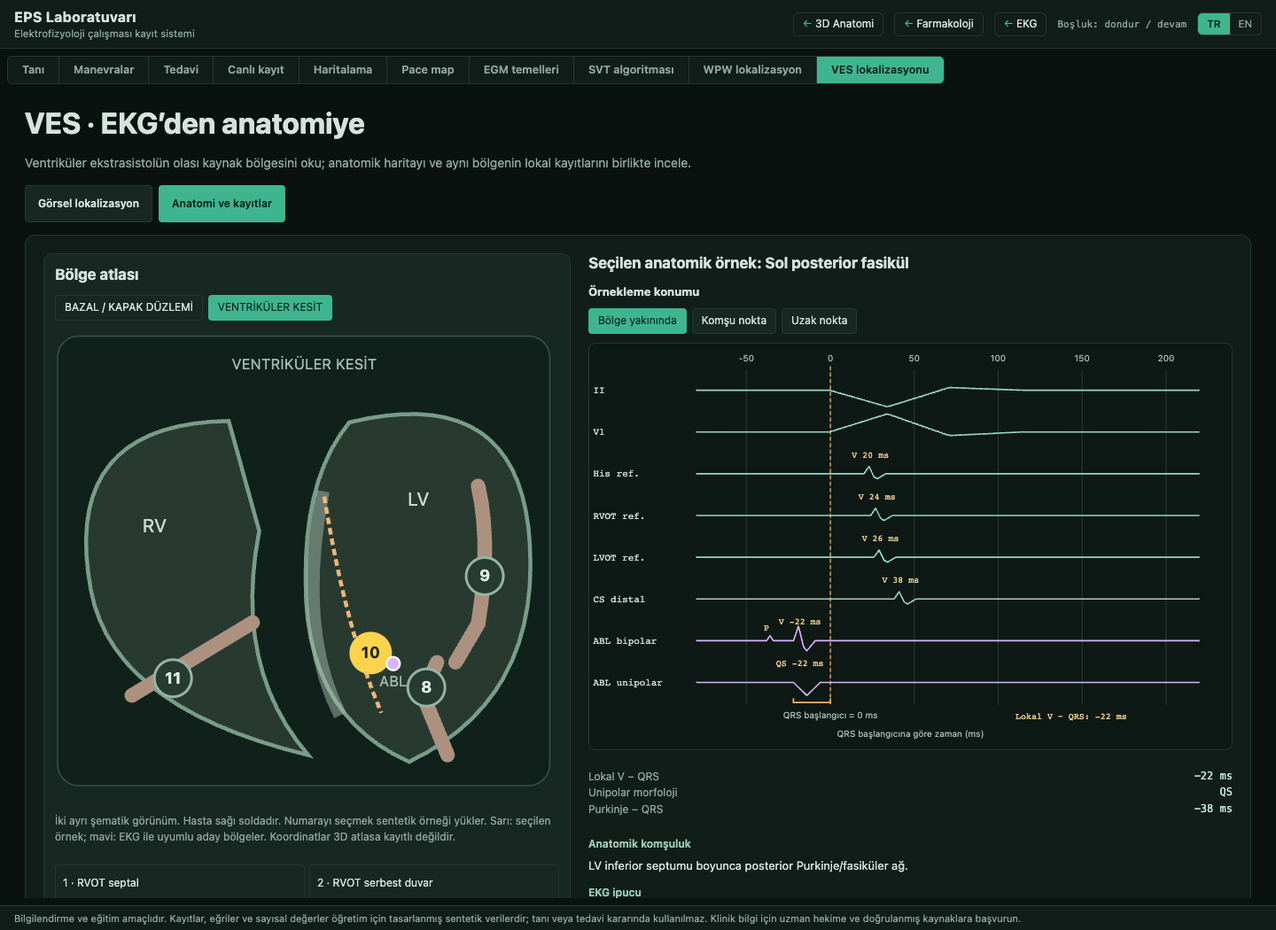
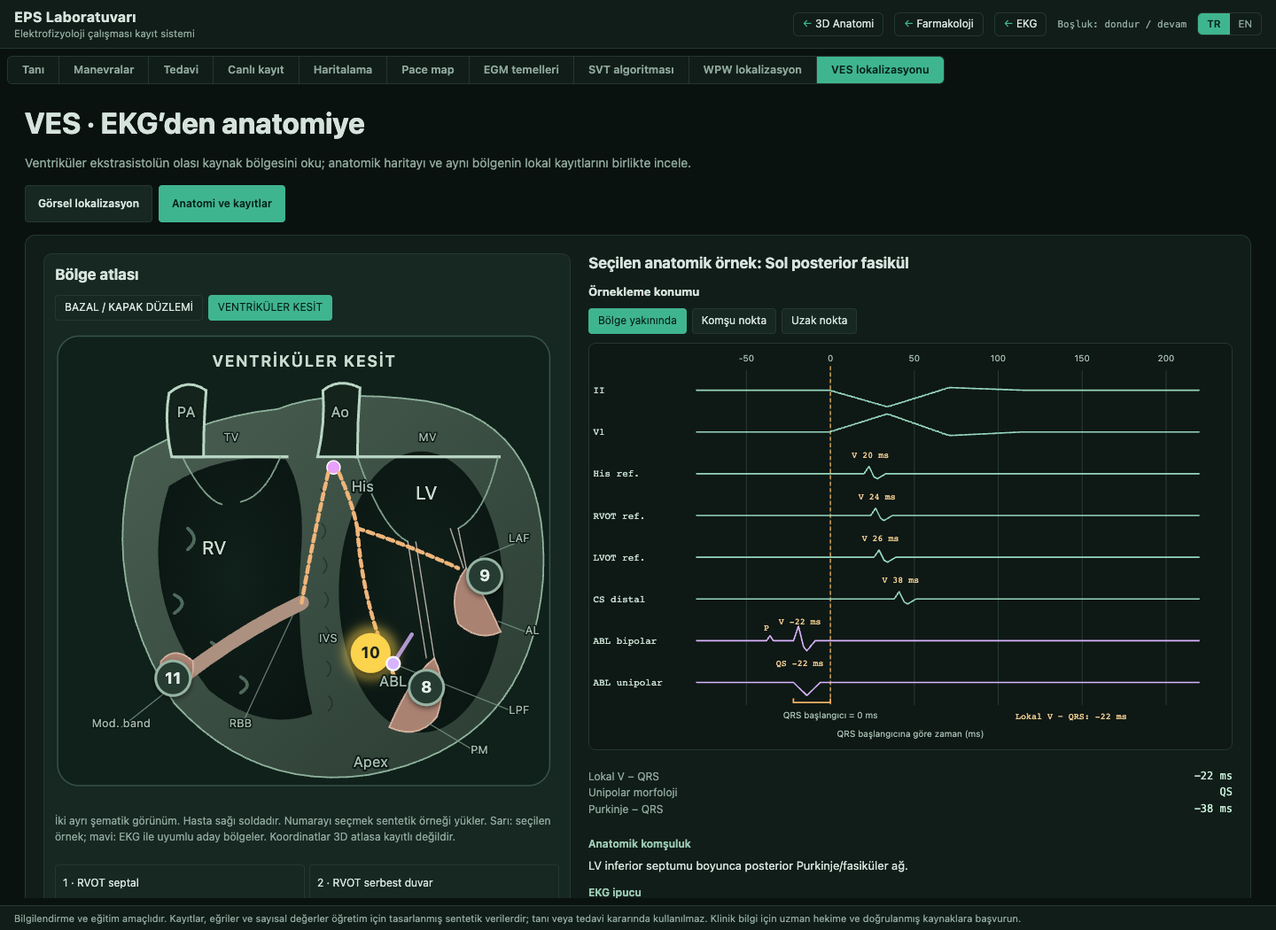
feat(eps): anatomical SVG atlas for the VES workbook
Replace the circle-and-arc region atlas with two hand-drawn anatomical
schematics in ves-loc-map.js. Basal view: aortic root with RCC/LCC/NCC
sinuses and coronary ostia, pulmonary valve anterior-left of the aorta,
RVOT infundibulum wrapping the root, tricuspid leaflets and the mitral
coaptation line with P1-P3 scallops, aorto-mitral continuity and fibrous
trigones, AV node/His at Koch's apex, CS os to GCV/AIV and the MCV, RCA
in the right AV groove and LM/LAD/LCx. Cutaway: myocardium and cavities,
septum, both LV papillary muscles with chordae, RV anterior papillary
muscle and moderator band, trabeculae, His/RBB/LBB fascicles, Ao and PA
stubs. Gradients, marker shadows and candidate/selected halos; labels
with leader lines; R/L and ANT/POST orientation.

Map rendering moves out of ves-loc-visual.js; data attributes, keyboard
behaviour and the browser test are unchanged.

Changed region(s): [[0.0625, 0.3657, 0.4375, 0.8533]]

diff --git a/src/eps/ves-loc-map.js b/src/eps/ves-loc-map.js
@@ -1,0 +1,163 @@
+import { VES_REGIONS } from './ves-loc-model.js';
+
+// Two original anatomical schematics for the PVC workbook. Basal view: the
+// ventricular base seen from above with the atria removed, anterior up and
+// the patient's right on the viewer's left. Cutaway: a long-axis section with
+// the RV on the viewer's left. Drawn by hand for teaching; nothing here is
+// registered to the 3D atlas or to patient imaging.
+const NS = 'http://www.w3.org/2000/svg';
+const s = (doc, tag, attrs = {}, text = '') => {
+  const node = doc.createElementNS(NS, tag);
+  for (const [k, v] of Object.entries(attrs)) node.setAttribute(k, String(v));
+  if (text !== '') node.textContent = text;
+  return node;
+};
+const polar = (cx, cy, r, deg) => [cx + r * Math.cos(deg * Math.PI / 180), cy + r * Math.sin(deg * Math.PI / 180)];
+const arc = (cx, cy, r, from, to) => {
+  const [x0, y0] = polar(cx, cy, r, from), [x1, y1] = polar(cx, cy, r, to);
+  return `M${x0.toFixed(1)} ${y0.toFixed(1)} A${r} ${r} 0 ${to - from > 180 ? 1 : 0} 1 ${x1.toFixed(1)} ${y1.toFixed(1)}`;
+};
+let uidCounter = 0;
+
+/** Shared gradients and the marker shadow; ids are unique per rendered SVG. */
+function defs(doc, uid) {
+  const d = s(doc, 'defs');
+  const stops = (id, list, radial = false) => {
+    const g = s(doc, radial ? 'radialGradient' : 'linearGradient', radial ? { id, cx: '50%', cy: '45%', r: '65%' } : { id, x1: 0, y1: 0, x2: 1, y2: 1 });
+    for (const [offset, color, opacity = 1] of list) g.append(s(doc, 'stop', { offset, 'stop-color': color, 'stop-opacity': opacity }));
+    d.append(g);
+  };
+  stops(`${uid}-myo`, [['0%', '#4a5f52'], ['100%', '#2a3b32']]);
+  stops(`${uid}-cavity`, [['0%', '#10201a'], ['100%', '#0a1512']], true);
+  stops(`${uid}-rvot`, [['0%', '#3e5547'], ['55%', '#2f4238'], ['100%', '#1f2f27']]);
+  stops(`${uid}-root`, [['0%', '#2a3f36'], ['100%', '#14241d']], true);
+  stops(`${uid}-vessel`, [['0%', '#f0a7a0'], ['100%', '#c96f68']]);
+  const f = s(doc, 'filter', { id: `${uid}-shadow`, x: '-50%', y: '-50%', width: '200%', height: '200%' });
+  f.append(s(doc, 'feDropShadow', { dx: 0, dy: 1.5, stdDeviation: 2, 'flood-color': '#000', 'flood-opacity': .55 }));
+  d.append(f);
+  const halo = s(doc, 'filter', { id: `${uid}-halo`, x: '-80%', y: '-80%', width: '260%', height: '260%' });
+  halo.append(s(doc, 'feGaussianBlur', { stdDeviation: 4 }));
+  d.append(halo);
+  return d;
+}
+
+function label(doc, parent, x, y, text, cls = 'ves-map-caption', leader = null) {
+  if (leader) parent.append(s(doc, 'line', { x1: leader[0], y1: leader[1], x2: x, y2: y, class: 'ves-map-lead' }));
+  parent.append(s(doc, 'text', { x, y, class: cls }, text));
+}
+
+/** Basal valve plane: aorta in the centre, pulmonary valve anterior-left, tricuspid right, mitral left. */
+function basalView(doc, g, uid, t) {
+  const AO = [205, 135], AOR = 40, PV = [262, 58], PVR = 25, TA = [100, 214], MA = [268, 215];
+  // Right ventricular outflow: wraps anterior to the aortic root from the tricuspid side to the pulmonary valve.
+  g.append(s(doc, 'path', { d: 'M62 158 Q46 66 124 44 Q186 28 232 50 L240 74 Q200 78 176 98 Q152 120 150 148 Z', class: 'ves-map-rvot', fill: `url(#${uid}-rvot)` }));
+  for (let i = 0; i < 5; i++) g.append(s(doc, 'path', { d: `M${74 + i * 6} ${150 - i * 14} Q${90 + i * 10} ${88 - i * 6} ${150 + i * 10} ${64 - i * 2}`, class: 'ves-map-fiber' }));
+  // Annuli as fibrous rings with a thick myocardial margin.
+  for (const [[cx, cy], rx, ry] of [[TA, 62, 66], [MA, 60, 62]]) {
+    g.append(s(doc, 'ellipse', { cx, cy, rx: rx + 9, ry: ry + 9, class: 'ves-map-myo', fill: `url(#${uid}-myo)` }));
+    g.append(s(doc, 'ellipse', { cx, cy, rx, ry, class: 'ves-map-cavity', fill: `url(#${uid}-cavity)` }));
+    g.append(s(doc, 'ellipse', { cx, cy, rx, ry, class: 'ves-map-ring' }));
+  }
+  // Tricuspid: three leaflets closed in a Y; mitral: anterior and posterior leaflets, P1-P3 scallops.
+  for (const deg of [-55, 65, 185]) { const [x, y] = polar(TA[0], TA[1], 58, deg); g.append(s(doc, 'line', { x1: TA[0], y1: TA[1], x2: x, y2: y, class: 'ves-map-leaflet' })); }
+  g.append(s(doc, 'path', { d: 'M218 190 Q268 236 318 192', class: 'ves-map-leaflet' }));
+  for (const deg of [50, 90, 130]) { const [x0, y0] = polar(MA[0], MA[1], 60, deg), [x1, y1] = polar(MA[0], MA[1], 52, deg); g.append(s(doc, 'line', { x1: x0, y1: y0, x2: x1, y2: y1, class: 'ves-map-leaflet' })); }
+  label(doc, g, 236, 262, 'P1', 'ves-map-tiny'); label(doc, g, 268, 266, 'P2', 'ves-map-tiny'); label(doc, g, 302, 258, 'P3', 'ves-map-tiny');
+  // Aorto-mitral continuity, the fibrous trigones and the central fibrous body.
+  g.append(s(doc, 'path', { d: 'M178 170 Q205 184 236 168 L250 160 Q226 180 208 182 Q190 184 170 180 Z', class: 'ves-map-fibrous' }));
+  g.append(s(doc, 'circle', { cx: 176, cy: 176, r: 5, class: 'ves-map-trigone' }), s(doc, 'circle', { cx: 244, cy: 165, r: 4.5, class: 'ves-map-trigone' }));
+  // Aortic root: three sinuses with their commissures; the coronary ostia on RCC and LCC.
+  g.append(s(doc, 'circle', { cx: AO[0], cy: AO[1], r: AOR + 8, class: 'ves-map-myo', fill: `url(#${uid}-myo)` }));
+  g.append(s(doc, 'circle', { cx: AO[0], cy: AO[1], r: AOR, class: 'ves-map-root', fill: `url(#${uid}-root)` }));
+  for (const [from, to] of [[-150, -30], [-30, 90], [90, 210]]) g.append(s(doc, 'path', { d: arc(AO[0], AO[1], AOR - 7, from + 6, to - 6), class: 'ves-map-cusp' }));
+  for (const deg of [-30, 90, 210]) { const [x, y] = polar(AO[0], AO[1], AOR, deg); g.append(s(doc, 'line', { x1: AO[0], y1: AO[1], x2: x, y2: y, class: 'ves-map-commissure' })); }
+  label(doc, g, 205, 112, 'RCC', 'ves-map-tiny'); label(doc, g, 226, 154, 'LCC', 'ves-map-tiny'); label(doc, g, 184, 154, 'NCC', 'ves-map-tiny');
+  // Pulmonary valve, anterior and to the left of the aorta.
+  g.append(s(doc, 'circle', { cx: PV[0], cy: PV[1], r: PVR + 6, class: 'ves-map-myo', fill: `url(#${uid}-myo)` }));
+  g.append(s(doc, 'circle', { cx: PV[0], cy: PV[1], r: PVR, class: 'ves-map-root', fill: `url(#${uid}-root)` }));
+  for (const deg of [-90, 30, 150]) { const [x, y] = polar(PV[0], PV[1], PVR, deg); g.append(s(doc, 'line', { x1: PV[0], y1: PV[1], x2: x, y2: y, class: 'ves-map-commissure' })); }
+  // Coronary veins: CS from its os along the posterior mitral annulus, GCV up the lateral wall into the AIV; MCV from the crux.
+  g.append(s(doc, 'path', { d: 'M172 288 Q232 322 300 292 Q358 262 354 190 Q350 132 310 106 Q294 96 284 90', class: 'ves-map-vein' }));
+  g.append(s(doc, 'path', { d: 'M196 300 Q192 318 198 336', class: 'ves-map-vein' }));
+  g.append(s(doc, 'ellipse', { cx: 172, cy: 288, rx: 7, ry: 5, class: 'ves-map-os' }));
+  // Coronary arteries: RCA around the tricuspid annulus to the crux; left main from the LCC to the LAD (anterior) and LCx (mitral annulus).
+  for (const d of ['M60 152 Q18 214 40 272 Q78 322 150 316 Q174 312 188 302', 'M236 120 L280 100', 'M280 100 Q300 72 316 36', 'M280 100 Q328 126 334 188 Q336 232 310 266', 'M300 64 L324 90', 'M34 232 L24 244']) {
+    g.append(s(doc, 'path', { d, class: 'ves-map-artery-shadow' }), s(doc, 'path', { d, class: 'ves-map-artery', stroke: `url(#${uid}-vessel)` }));
+  }
+  g.append(s(doc, 'circle', { cx: 190, cy: 100, r: 3, class: 'ves-map-ostium' }), s(doc, 'circle', { cx: 236, cy: 120, r: 3, class: 'ves-map-ostium' }));
+  // Conduction: compact AV node/His at the apex of Koch's triangle beside the central fibrous body.
+  g.append(s(doc, 'path', { d: 'M164 172 L168 162 L174 170', class: 'ves-map-his-line' }), s(doc, 'circle', { cx: 168, cy: 166, r: 5, class: 'ves-map-his' }));
+  // Labels.
+  label(doc, g, 116, 96, 'RVOT', 'ves-map-label'); label(doc, g, 262, 60, 'PV', 'ves-map-label');
+  label(doc, g, 100, 216, 'TA', 'ves-map-label'); label(doc, g, 268, 216, 'MA', 'ves-map-label'); label(doc, g, 205, 136, 'Ao', 'ves-map-label');
+  label(doc, g, 146, 158, 'His', 'ves-map-caption'); label(doc, g, 150, 306, 'CS os', 'ves-map-caption', [166, 292]);
+  label(doc, g, 330, 30, 'LAD', 'ves-map-caption', [316, 38]); label(doc, g, 318, 290, 'LCx', 'ves-map-caption', [312, 268]);
+  label(doc, g, 28, 196, 'RCA', 'ves-map-caption', [30, 214]); label(doc, g, 334, 318, 'CS', 'ves-map-caption', [304, 292]);
+  label(doc, g, 222, 336, 'MCV', 'ves-map-caption'); label(doc, g, 352, 150, 'GCV', 'ves-map-caption', [352, 170]);
+  label(doc, g, 183, 28, t.base, 'ves-map-title');
+  label(doc, g, 22, 334, 'R', 'ves-map-axis'); label(doc, g, 346, 334, 'L', 'ves-map-axis'); label(doc, g, 183, 46, 'ANT', 'ves-map-axis'); label(doc, g, 110, 336, 'POST', 'ves-map-axis');
+}
+
+/** Long-axis cutaway: RV on the viewer's left, LV on the right, apex down. */
+function cutawayView(doc, g, uid, t) {
+  // Epicardium and the two cavities; the septum is the myocardium between them.
+  g.append(s(doc, 'path', { d: 'M440 96 Q412 190 470 282 Q530 348 616 336 Q738 314 748 188 Q754 70 660 54 Q588 44 548 60 Q490 66 440 96 Z', class: 'ves-map-myo', fill: `url(#${uid}-myo)` }));
+  g.append(s(doc, 'path', { d: 'M466 118 Q440 198 496 272 Q536 304 574 290 Q560 232 566 162 Q568 120 554 98 Q506 92 466 118 Z', class: 'ves-map-cavity', fill: `url(#${uid}-cavity)` }));
+  g.append(s(doc, 'ellipse', { cx: 656, cy: 198, rx: 62, ry: 106, class: 'ves-map-cavity', fill: `url(#${uid}-cavity)` }));
+  for (let i = 0; i < 7; i++) g.append(s(doc, 'path', { d: `M${580 + i} ${120 + i * 26} q6 6 0 12`, class: 'ves-map-fiber' }));
+  // RV trabeculae and the moderator band running from the septum to the anterior papillary muscle.
+  for (const d of ['M480 150 q10 8 0 16', 'M470 200 q12 6 0 14', 'M498 236 q10 6 0 12', 'M520 262 q10 6 0 12']) g.append(s(doc, 'path', { d, class: 'ves-map-trabecula' }));
+  g.append(s(doc, 'path', { d: 'M566 206 Q520 228 476 262', class: 'ves-map-muscle' }));
+  g.append(s(doc, 'path', { d: 'M460 250 Q470 238 484 250 Q486 270 470 276 Q456 270 460 250 Z', class: 'ves-map-papillary' }));
+  // Base: tricuspid and mitral annuli with leaflets, chordae to the two LV papillary muscles, outflow stubs.
+  g.append(s(doc, 'path', { d: 'M470 96 L556 96', class: 'ves-map-ring' }), s(doc, 'path', { d: 'M476 96 Q492 128 506 132 M550 96 Q538 126 520 130', class: 'ves-map-leaflet' }));
+  g.append(s(doc, 'path', { d: 'M606 96 L716 96', class: 'ves-map-ring' }), s(doc, 'path', { d: 'M608 96 Q626 150 646 160 M714 96 Q704 140 684 150', class: 'ves-map-leaflet' }));
+  g.append(s(doc, 'path', { d: 'M632 300 Q648 262 666 248 Q676 268 668 292 Q654 310 632 300 Z', class: 'ves-map-papillary' }));
+  g.append(s(doc, 'path', { d: 'M716 228 Q702 196 690 180 Q676 198 684 222 Q700 236 716 228 Z', class: 'ves-map-papillary' }));
+  for (const d of ['M646 160 L660 248', 'M652 160 L666 248', 'M684 150 L690 180', 'M678 150 L688 180']) g.append(s(doc, 'path', { d, class: 'ves-map-chordae' }));
+  g.append(s(doc, 'path', { d: 'M578 96 Q584 70 582 46 Q594 36 610 44 Q608 70 608 96 Z', class: 'ves-map-outflow' }), s(doc, 'path', { d: 'M468 96 Q462 70 466 48 Q480 36 494 46 Q492 70 492 96 Z', class: 'ves-map-outflow' }));
+  // Conduction system: His at the membranous septum; RBB to the moderator band; LBB splitting into anterior and posterior fascicles.
+  g.append(s(doc, 'circle', { cx: 590, cy: 104, r: 5, class: 'ves-map-his' }));
+  g.append(s(doc, 'path', { d: 'M586 108 Q574 160 566 206', class: 'ves-map-purkinje' }));
+  g.append(s(doc, 'path', { d: 'M594 108 Q604 130 608 150', class: 'ves-map-purkinje' }));
+  g.append(s(doc, 'path', { d: 'M608 150 Q640 160 684 180', class: 'ves-map-purkinje' }), s(doc, 'path', { d: 'M608 150 Q612 210 636 262', class: 'ves-map-purkinje' }));
+  // Labels.
+  label(doc, g, 500, 170, 'RV', 'ves-map-label'); label(doc, g, 660, 128, 'LV', 'ves-map-label'); label(doc, g, 618, 330, 'Apex', 'ves-map-caption');
+  label(doc, g, 595, 66, 'Ao', 'ves-map-caption'); label(doc, g, 479, 66, 'PA', 'ves-map-caption');
+  label(doc, g, 513, 84, 'TV', 'ves-map-tiny'); label(doc, g, 661, 84, 'MV', 'ves-map-tiny');
+  label(doc, g, 586, 236, 'IVS', 'ves-map-tiny'); label(doc, g, 612, 122, 'His', 'ves-map-caption');
+  label(doc, g, 520, 300, 'RBB', 'ves-map-tiny', [560, 214]); label(doc, g, 730, 160, 'LAF', 'ves-map-tiny', [700, 172]); label(doc, g, 730, 290, 'LPF', 'ves-map-tiny', [630, 250]);
+  label(doc, g, 430, 300, 'Mod. band', 'ves-map-tiny', [478, 262]); label(doc, g, 700, 320, 'PM', 'ves-map-tiny', [660, 296]); label(doc, g, 740, 230, 'AL', 'ves-map-tiny', [714, 220]);
+  label(doc, g, 568, 28, t.chambers, 'ves-map-title');
+}
+
+export function renderVesMap(doc, svg, { t, selected, candidates = [], onSelect, position = null, view = 'base' }) {
+  const uid = `vesmap${++uidCounter}`;
+  svg.replaceChildren(s(doc, 'title', {}, t.map), defs(doc, uid));
+  svg.setAttribute('aria-label', `${t.map}: ${t[view]}`); svg.setAttribute('role', 'group');
+  svg.setAttribute('viewBox', view === 'base' ? '0 0 370 350' : '380 0 380 350');
+  const scene = s(doc, 'g', { 'aria-hidden': 'true' });
+  scene.append(s(doc, 'rect', { x: 5, y: 5, width: 356, height: 339, rx: 16, class: 'ves-map-frame' }), s(doc, 'rect', { x: 382, y: 5, width: 371, height: 339, rx: 16, class: 'ves-map-frame' }));
+  if (view === 'base') basalView(doc, scene, uid, t); else cutawayView(doc, scene, uid, t);
+  svg.append(scene);
+  for (const region of VES_REGIONS) {
+    if (region.view !== view) continue;
+    const [x, y] = region.xy;
+    const group = s(doc, 'g', { tabindex: 0, role: 'button', class: 'ves-map-site', 'data-ves-map-site': region.id,
+      'aria-label': `${t.example}: ${t.sites[region.id].name}`, 'aria-pressed': selected === region.id,
+      'data-candidate': candidates.includes(region.id) });
+    group.append(s(doc, 'title', {}, t.sites[region.id].name),
+      s(doc, 'circle', { cx: x, cy: y, r: 18, class: 'ves-map-halo', filter: `url(#${uid}-halo)` }),
+      s(doc, 'circle', { cx: x, cy: y, r: 13, filter: `url(#${uid}-shadow)` }),
+      s(doc, 'text', { x, y: y + 4 }, region.number));
+    group.addEventListener('click', () => onSelect(region.id));
+    group.addEventListener('keydown', e => { if (e.key === 'Enter' || e.key === ' ') { e.preventDefault(); onSelect(region.id); } });
+    svg.append(group);
+    if (selected === region.id && position) {
+      const offset = { near: [17, 8], adjacent: [30, -18], remote: [30, 27] }[position];
+      svg.append(s(doc, 'line', { x1: x + offset[0], y1: y + offset[1], x2: x + offset[0] + 14, y2: y + offset[1] - 22, class: 'ves-map-abl-shaft' }),
+        s(doc, 'circle', { cx: x + offset[0], cy: y + offset[1], r: 5, class: 'ves-map-abl', 'data-ves-electrode': position }),
+        s(doc, 'text', { x: x + offset[0], y: y + offset[1] + 17, class: 'ves-map-caption' }, 'ABL'));
+    }
+  }
+}

diff --git a/src/eps/ves-loc.css b/src/eps/ves-loc.css
@@ -23,6 +23,63 @@
 .ves-site-list { display: grid; grid-template-columns: repeat(2, minmax(0, 1fr)); gap: 5px; }
 .ves-site-list button { padding: 8px; text-align: left; font-size: 12px; min-height: 44px; overflow-wrap: anywhere; }
 .ves button[data-candidate=true]:not([aria-pressed=true]) { border-color: #7fb2ff; }
+.ves-map-frame { fill: #0c1713; stroke: #2f4a3e; }
+.ves-map-myo { stroke: #8fb39d; stroke-width: 1.2; }
+.ves-map-cavity { stroke: none; }
+.ves-map-ring { fill: none; stroke: #b9d6c4; stroke-width: 2.2; }
+.ves-map-leaflet { fill: none; stroke: #8fb39d; stroke-width: 1.2; stroke-linecap: round; opacity: .85; }
+.ves-map-rvot { stroke: #8fb39d; stroke-width: 1.4; }
+.ves-map-fiber { fill: none; stroke: #0a1512; stroke-width: 1; opacity: .45; }
+.ves-map-root { stroke: #c4dccb; stroke-width: 2; }
+.ves-map-cusp { fill: none; stroke: #9fc4ad; stroke-width: 1.4; }
+.ves-map-commissure { stroke: #9fc4ad; stroke-width: 1; opacity: .7; }
+.ves-map-fibrous { fill: #d9d2b8; opacity: .35; stroke: none; }
+.ves-map-trigone { fill: #e8e0c2; stroke: #fff6d8; stroke-width: 1; }
+.ves-map-ostium { fill: #ffd6d0; stroke: #c96f68; stroke-width: 1; }
+.ves-map-os { fill: #1b2f4a; stroke: #7fb2ff; stroke-width: 1.5; }
+.ves-map-artery-shadow { fill: none; stroke: #000; stroke-width: 7; opacity: .35; stroke-linecap: round; stroke-linejoin: round; }
+.ves-map-artery { fill: none; stroke-width: 4; stroke-linecap: round; stroke-linejoin: round; }
+.ves-map-vein { fill: none; stroke: #6ea3f0; stroke-width: 5.5; opacity: .85; stroke-linecap: round; }
+.ves-map-muscle { fill: none; stroke: #b08a78; stroke-width: 9; stroke-linecap: round; }
+.ves-map-papillary { fill: #a98272; stroke: #d5b2a0; stroke-width: 1.2; }
+.ves-map-chordae { fill: none; stroke: #e9d8cf; stroke-width: .9; opacity: .8; }
+.ves-map-trabecula { fill: none; stroke: #4f6a5c; stroke-width: 2.5; stroke-linecap: round; }
+.ves-map-outflow { fill: #14241d; stroke: #b9d6c4; stroke-width: 2; }
+.ves-map-purkinje { fill: none; stroke: #f2b66e; stroke-width: 2.2; stroke-dasharray: 4 3; stroke-linecap: round; }
+.ves-map-his { fill: #e9a0fa; stroke: #fff; stroke-width: 1; }
+.ves-map-his-line { fill: none; stroke: #e9a0fa; stroke-width: 1.5; }
+.ves-map-abl { fill: #d8b4fe; stroke: white; stroke-width: 1.5; }
+.ves-map-abl-shaft { stroke: #d8b4fe; stroke-width: 3; stroke-linecap: round; opacity: .8; }
+.ves-map-lead { stroke: #7f9a8c; stroke-width: .8; opacity: .8; }
+.ves-map-title { fill: #c9dacf; font: 600 12px system-ui, sans-serif; letter-spacing: .08em; text-anchor: middle; }
+.ves-map-axis { fill: #6f8a7c; font: 600 9px system-ui, sans-serif; letter-spacing: .1em; text-anchor: middle; }
+.ves-map-caption { fill: #b3c9bd; font: 10.5px system-ui, sans-serif; text-anchor: middle; paint-order: stroke; stroke: #0c1713; stroke-width: 3px; stroke-linejoin: round; }
+.ves-map-tiny { fill: #9fb8ab; font: 8.5px system-ui, sans-serif; text-anchor: middle; paint-order: stroke; stroke: #0c1713; stroke-width: 2.5px; stroke-linejoin: round; }
+.ves-map-label { fill: #e3ece6; font: 600 14px system-ui, sans-serif; text-anchor: middle; paint-order: stroke; stroke: #0c1713; stroke-width: 3px; stroke-linejoin: round; }
+.ves-map-site { cursor: pointer; }
+.ves-map-site circle { fill: #1f3329; stroke: #cfe3d6; stroke-width: 1.8; }
+.ves-map-site .ves-map-halo { fill: transparent; stroke: none; }
+.ves-map-site text { fill: #eef5f0; font: bold 12px system-ui, sans-serif; text-anchor: middle; pointer-events: none; }
+.ves-map-site[data-candidate=true] circle { stroke: #7fb2ff; stroke-width: 3; }
+.ves-map-site[data-candidate=true] .ves-map-halo { fill: #7fb2ff; opacity: .55; }
+.ves-map-site[aria-pressed=true] circle { fill: #fcd34d; stroke: #fff3c4; stroke-width: 2.5; }
+.ves-map-site[aria-pressed=true] .ves-map-halo { fill: #fcd34d; opacity: .6; }
+.ves-map-site[aria-pressed=true] text { fill: #1b241b; }
+.ves-map-site:focus-visible { outline: none; }
+.ves-map-site:focus-visible circle { stroke: white; stroke-width: 4; }
+.ves-trace { stroke: #173e2a; }
+.ves-atlas { display: grid; gap: 10px; padding: 12px; background: var(--panel-2); border: 1px solid var(--line); border-radius: 10px; min-width: 0; }
+.ves-map, .ves-ecg, .ves-monitor { display: block; width: 100%; min-width: 0; height: auto; }
+.ves-ecg, .ves-monitor { background: #0e1815; border: 1px solid var(--line); border-radius: 8px; }
+.ves-strip-window { min-width: 0; max-width: 100%; overflow-x: auto; border-radius: 8px; }
+.ves-strip-window:focus-visible { outline: 2px solid var(--accent); outline-offset: 2px; }
+.ves-ecg { min-width: 720px; }
+.ves-monitor { min-width: 720px; }
+.ves-scroll-hint { display: none; }
+@media (max-width: 1200px) { .ves-scroll-hint { display: block; } }
+.ves-site-list { display: grid; grid-template-columns: repeat(2, minmax(0, 1fr)); gap: 5px; }
+.ves-site-list button { padding: 8px; text-align: left; font-size: 12px; min-height: 44px; overflow-wrap: anywhere; }
+.ves button[data-candidate=true]:not([aria-pressed=true]) { border-color: #7fb2ff; }
 .ves-map-frame { fill: #10211b; stroke: #375348; }
 .ves-map-chamber { fill: #283a30; stroke: #789d88; stroke-width: 3; }
 .ves-map-valve { fill: #172a24; stroke: #789d88; stroke-width: 3; }

diff --git a/src/eps/ves-loc-visual.js b/src/eps/ves-loc-visual.js
@@ -1,5 +1,5 @@
 import { LEADS } from './ecg12.js';
-import { VES_REGIONS, recordingValue } from './ves-loc-model.js';
+import { recordingValue } from './ves-loc-model.js';
 
 const s = (doc, tag, attrs = {}, text = '') => {
   const node = doc.createElementNS('http://www.w3.org/2000/svg', tag);
@@ -8,65 +8,6 @@ const s = (doc, tag, attrs = {}, text = '') => {
   return node;
 };
 export const vesSvg = (doc, box, cls) => s(doc, 'svg', { viewBox: box, class: cls, role: 'img' });
-
-export function renderVesMap(doc, svg, { t, selected, candidates = [], onSelect, position = null, view = 'base' }) {
-  svg.replaceChildren(s(doc, 'title', {}, t.map));
-  svg.setAttribute('aria-label', `${t.map}: ${t[view]}`); svg.setAttribute('role', 'group');
-  svg.setAttribute('viewBox', view === 'base' ? '0 0 370 350' : '380 0 380 350');
-  svg.append(
-    s(doc, 'rect', { x: 5, y: 5, width: 356, height: 339, rx: 16, class: 'ves-map-frame' }),
-    s(doc, 'rect', { x: 382, y: 5, width: 371, height: 339, rx: 16, class: 'ves-map-frame' }),
-    s(doc, 'text', { x: 180, y: 30, class: 'ves-map-caption' }, t.base),
-    s(doc, 'text', { x: 568, y: 30, class: 'ves-map-caption' }, t.chambers),
-    // Anterior up, patient right on the left: the RV outflow wraps in front of
-    // the aortic root from the tricuspid side to the pulmonary valve, which sits
-    // anterior and to the left of the aortic valve.
-    s(doc, 'path', { d: 'M62 158 Q46 66 124 44 Q186 28 232 50 L236 70 Q200 76 176 96 Q152 118 150 146', class: 'ves-map-chamber' }),
-    s(doc, 'ellipse', { cx: 258, cy: 58, rx: 30, ry: 14, class: 'ves-map-valve' }),
-    s(doc, 'circle', { cx: 204, cy: 130, r: 34, class: 'ves-map-valve' }),
-    s(doc, 'ellipse', { cx: 100, cy: 214, rx: 57, ry: 62, class: 'ves-map-valve' }),
-    s(doc, 'ellipse', { cx: 266, cy: 217, rx: 55, ry: 58, class: 'ves-map-valve' }),
-    s(doc, 'text', { x: 110, y: 108, class: 'ves-map-caption' }, 'RVOT'),
-    s(doc, 'text', { x: 258, y: 62, class: 'ves-map-caption' }, 'PV'),
-    s(doc, 'text', { x: 203, y: 176, class: 'ves-map-caption' }, 'Ao / LVOT'),
-    s(doc, 'text', { x: 99, y: 213, class: 'ves-map-label' }, 'TA'),
-    s(doc, 'text', { x: 266, y: 212, class: 'ves-map-label' }, 'MA'),
-    // Left main from the left coronary sinus; LAD runs anteriorly, LCx along the mitral annulus.
-    s(doc, 'path', { d: 'M236 118 L282 98 L312 36 M282 98 L330 142', class: 'ves-map-coronary' }),
-    s(doc, 'text', { x: 326, y: 32, class: 'ves-map-caption' }, 'LAD'),
-    s(doc, 'text', { x: 344, y: 130, class: 'ves-map-caption' }, 'LCx'),
-    s(doc, 'path', { d: 'M161 273 Q219 313 288 271 Q341 245 326 173 M202 298 L199 326', class: 'ves-map-vein' }),
-    s(doc, 'text', { x: 302, y: 307, class: 'ves-map-caption' }, 'CS'),
-    s(doc, 'text', { x: 204, y: 335, class: 'ves-map-caption' }, 'MCV'),
-    s(doc, 'circle', { cx: 168, cy: 168, r: 5, class: 'ves-map-his' }),
-    s(doc, 'text', { x: 147, y: 162, class: 'ves-map-caption' }, 'His'),
-    s(doc, 'path', { d: 'M511 69 Q384 71 407 196 Q423 285 571 321 Q514 255 534 152 Z', class: 'ves-map-chamber' }),
-    s(doc, 'path', { d: 'M602 70 Q731 39 738 162 Q745 279 647 326 Q568 291 569 189 Q568 111 602 70 Z', class: 'ves-map-chamber' }),
-    s(doc, 'path', { d: 'M582 122 Q562 226 595 291', class: 'ves-map-septum' }),
-    s(doc, 'path', { d: 'M699 118 Q709 161 699 222 L682 251 M676 321 L657 275 L668 251', class: 'ves-map-muscle' }),
-    s(doc, 'path', { d: 'M529 221 L438 276', class: 'ves-map-muscle' }),
-    s(doc, 'path', { d: 'M583 126 Q599 225 626 289', class: 'ves-map-purkinje' }),
-    s(doc, 'text', { x: 455, y: 153, class: 'ves-map-label' }, 'RV'),
-    s(doc, 'text', { x: 654, y: 133, class: 'ves-map-label' }, 'LV')
-  );
-  for (const decoration of svg.children) decoration.setAttribute('aria-hidden', 'true');
-  for (const region of VES_REGIONS) {
-    if (region.view !== view) continue;
-    const [x, y] = region.xy;
-    const group = s(doc, 'g', { tabindex: 0, role: 'button', class: 'ves-map-site', 'data-ves-map-site': region.id,
-      'aria-label': `${t.example}: ${t.sites[region.id].name}`, 'aria-pressed': selected === region.id,
-      'data-candidate': candidates.includes(region.id) });
-    group.append(s(doc, 'title', {}, t.sites[region.id].name), s(doc, 'circle', { cx: x, cy: y, r: 14 }), s(doc, 'text', { x, y: y + 4 }, region.number));
-    group.addEventListener('click', () => onSelect(region.id));
-    group.addEventListener('keydown', e => { if (e.key === 'Enter' || e.key === ' ') { e.preventDefault(); onSelect(region.id); } });
-    svg.append(group);
-    if (selected === region.id && position) {
-      const offset = { near: [17, 8], adjacent: [30, -18], remote: [30, 27] }[position];
-      svg.append(s(doc, 'circle', { cx: x + offset[0], cy: y + offset[1], r: 5, class: 'ves-map-abl', 'data-ves-electrode': position }),
-        s(doc, 'text', { x: x + offset[0], y: y + offset[1] + 17, class: 'ves-map-caption' }, 'ABL'));
-    }
-  }
-}
 
 export function renderVesOption(doc, svg, key, option) {
   const paths = {

diff --git a/src/eps/ves-loc-panel.js b/src/eps/ves-loc-panel.js
@@ -1,6 +1,7 @@
 import { VES_REGIONS, VES_INPUTS, VES_OPTIONS, VES_SOURCES, VES_POSITIONS, vesRegion, vesEcg, vesFeatures, localizeVes, v2TransitionRatio, vesRecording } from './ves-loc-model.js';
 import { VES_TEXT } from './ves-loc-text.js';
-import { vesSvg, renderVesMap, renderVesOption, renderVesEcg, renderVesRecording } from './ves-loc-visual.js';
+import { vesSvg, renderVesOption, renderVesEcg, renderVesRecording } from './ves-loc-visual.js';
+import { renderVesMap } from './ves-loc-map.js';
 
 export function createVesLocPanel(doc, { getLang = () => 'tr' } = {}) {
   const state = { active: false, page: 'loc', mapView: 'base', selected: 'rvot-septal', inputs: vesFeatures('rvot-septal'), position: 'near', scar: false, amplitudes: {} };
